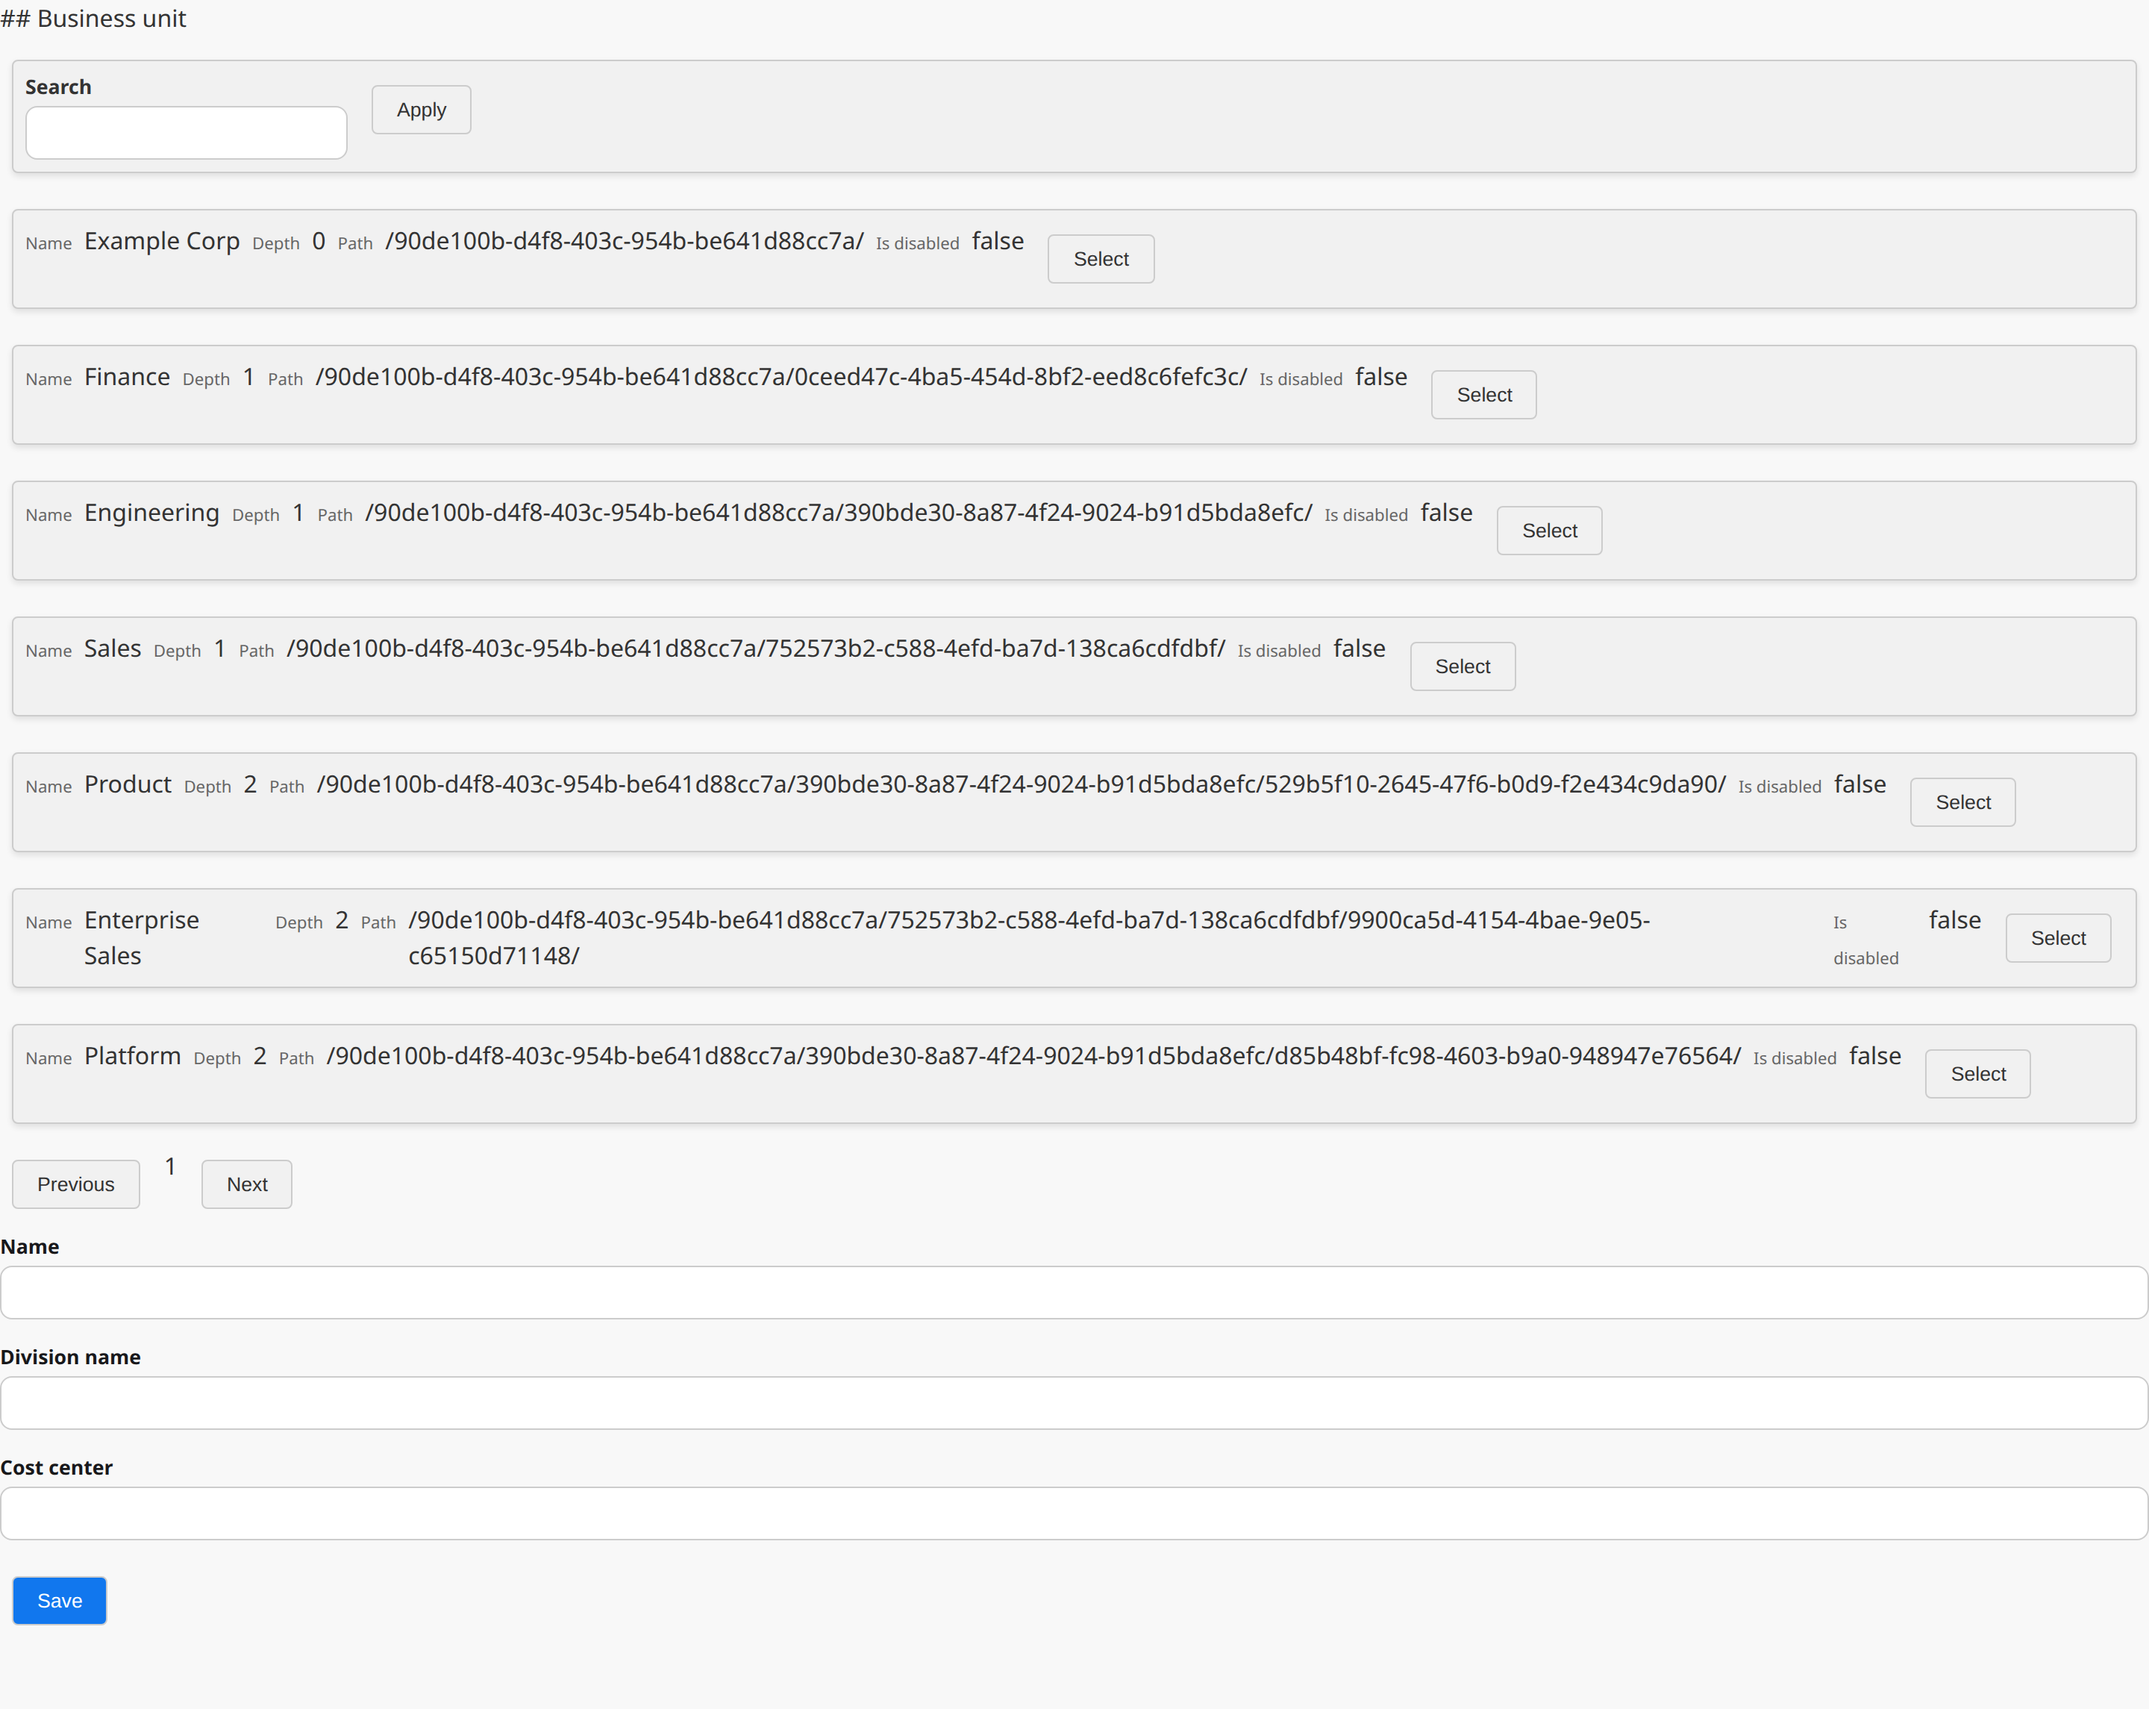
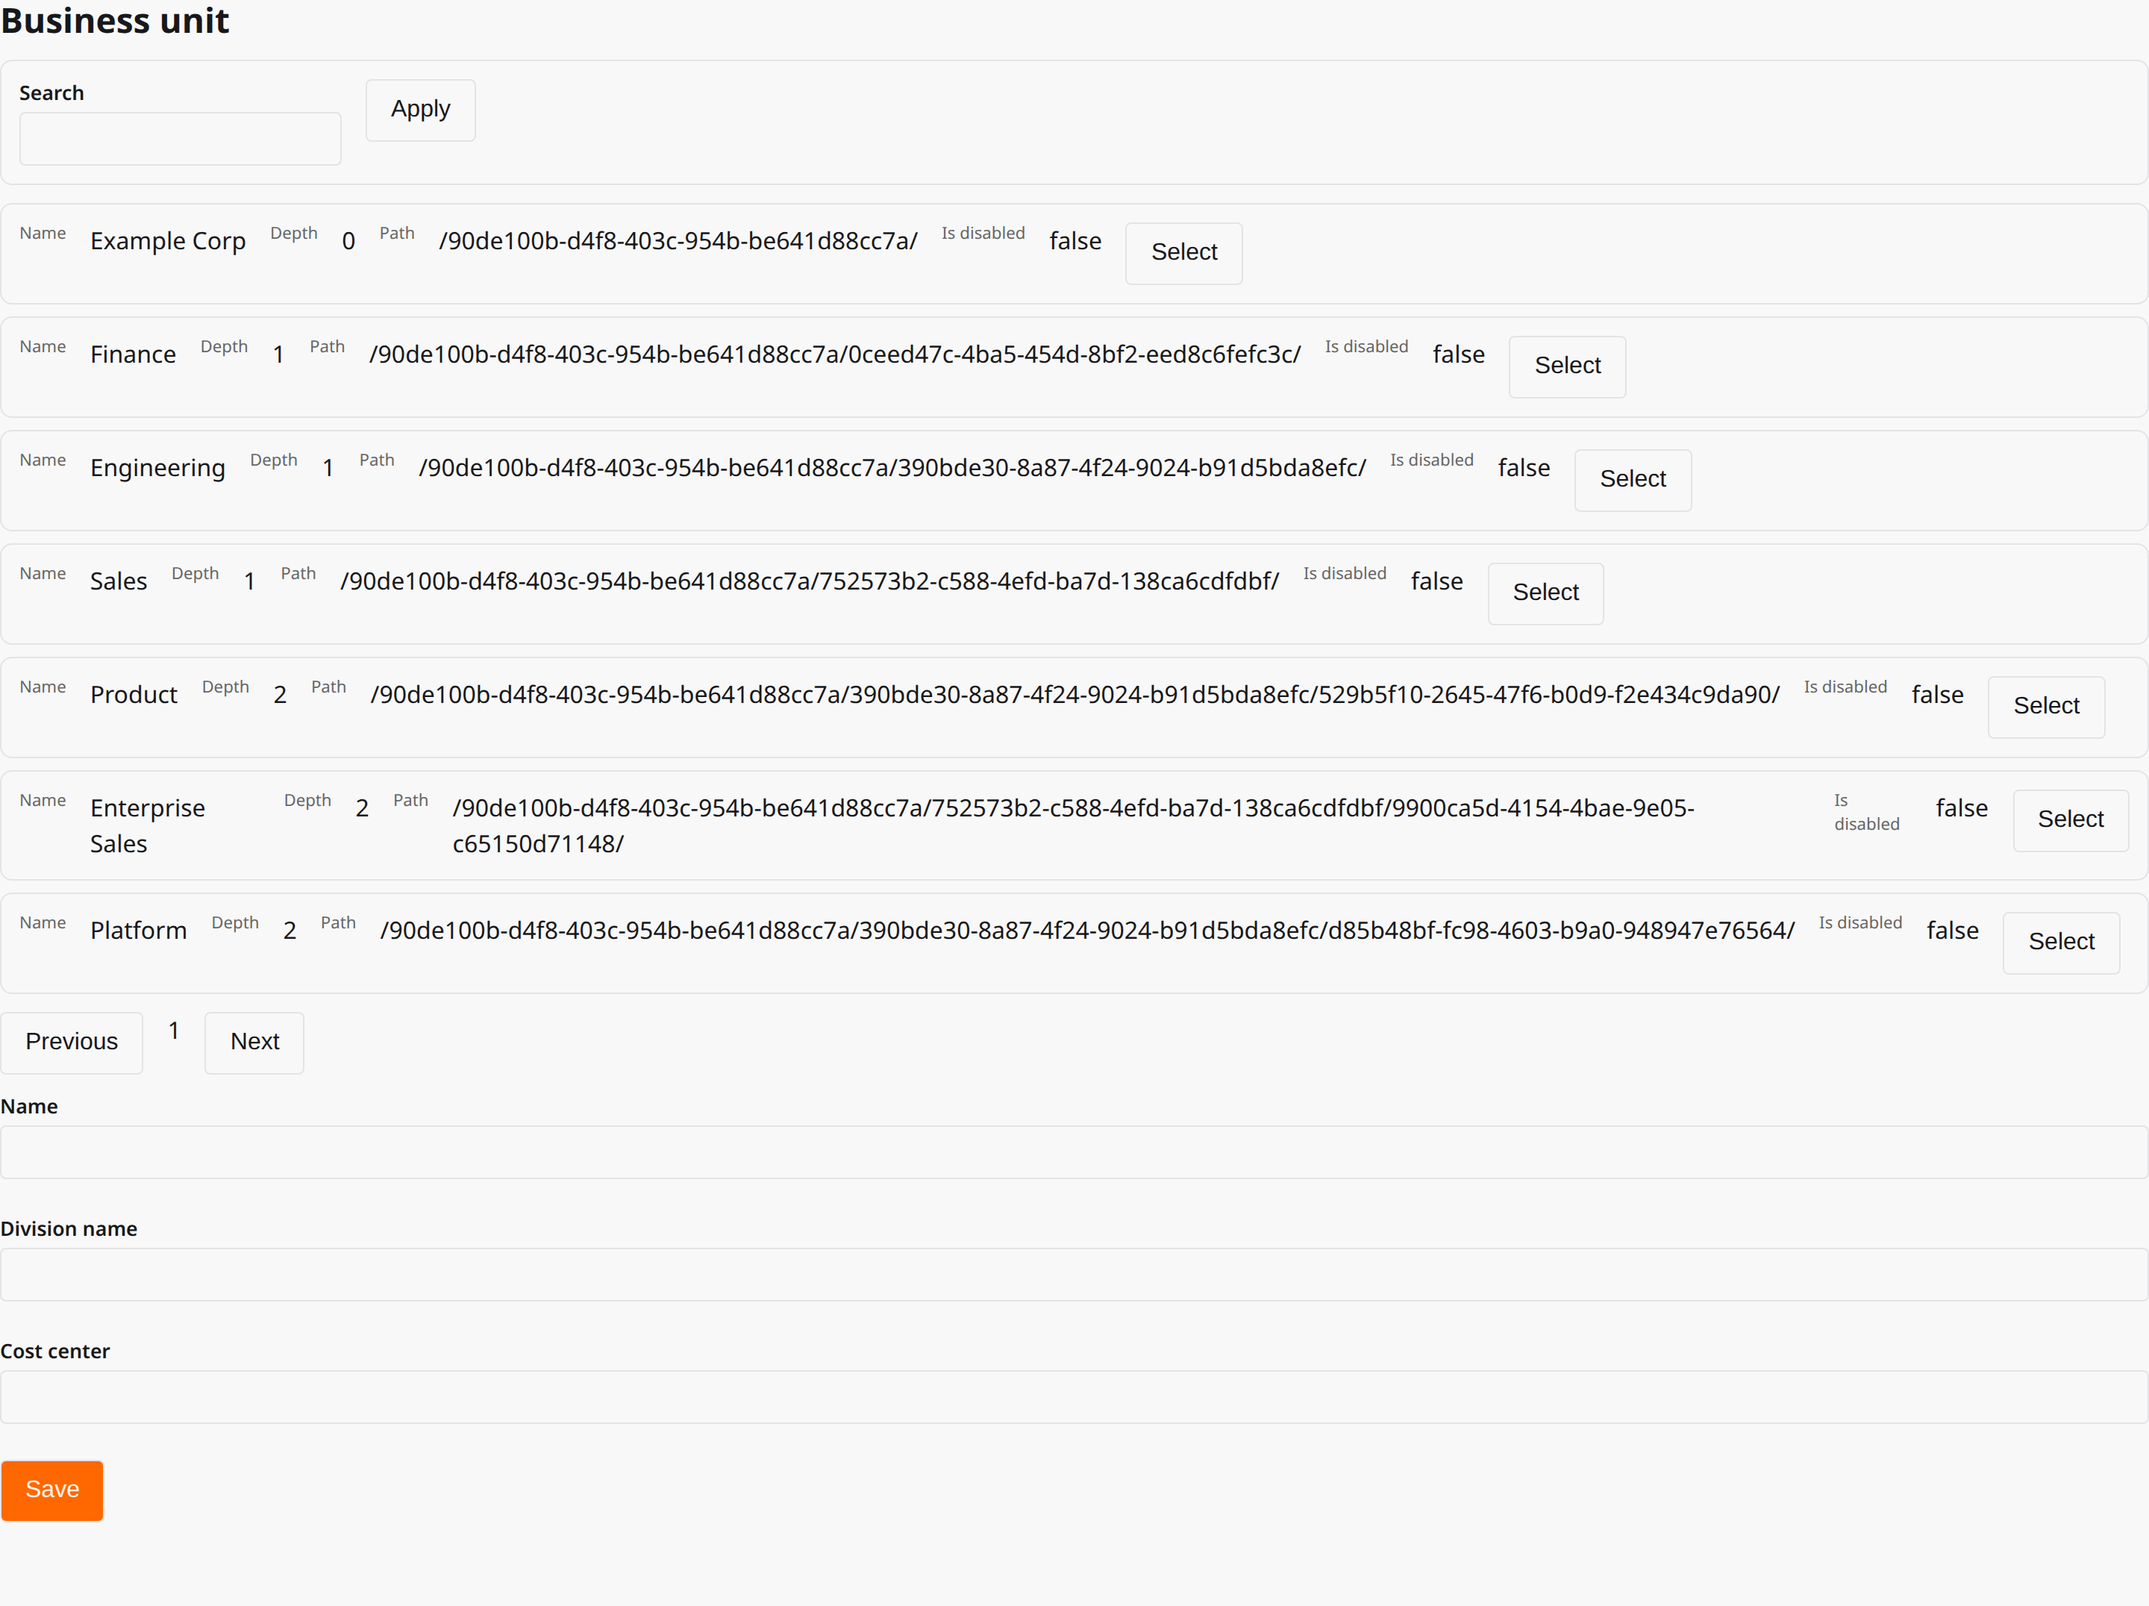
Theme the A2UI surfaces, and wire the two client pieces that were missing
The surfaces looked unstyled because ash_a2ui's client wiring was never
finished -- three of its four documented setup steps were absent or inverted.

daisyUI was not the problem. It is installed, compiling, and working
everywhere else; it simply cannot reach these components. @a2ui/lit's basic
catalog renders inside SHADOW DOM and exposes no ::part()s, so no Tailwind
utility, daisyUI class or element selector crosses into it. The only seam that
does is CSS custom properties, which inherit through shadow boundaries -- and
none were set, so what shipped was the A2UI factory default theme.

**The merged catalog was dead code.** `catalogs: [basicCatalog, ashCatalog]`
registered both under the same catalog id, and resolution is first-match, so
basicCatalog shadowed ashCatalog entirely and every override it exists to
provide never ran. The comment above that line asserted the opposite. Visible
as single-choice pickers rendering a stack of radio buttons; they are native
<select>s now.

**No markdown renderer was wired,** so the basic catalog's Text fell back to
`<span class="no-markdown-renderer">`. That printed headings as literal `##`,
but far worse, collapsed EVERY Text on every surface to one identical unstyled
span -- no type hierarchy anywhere, and the --a2ui-font-size-* scale dead. This
is also a hard prerequisite for A2UI v1.0, which removes the h1-h5 Text
variants entirely, leaving markdown as the only way to express a heading.
[…]

diff --git a/assets/css/app.css b/assets/css/app.css
@@ -105,4 +105,60 @@
 /* Make LiveView wrapper divs transparent for layout */
 [data-phx-session], [data-phx-teleported-src] { display: contents }
 
+/* --- A2UI surfaces --------------------------------------------------------
+ *
+ * A2UI's basic-catalog components render inside SHADOW DOM. None of the CSS
+ * above reaches them: not Tailwind utilities, not daisyUI's classes, not
+ * element or class selectors, and they expose no ::part()s. daisyUI is
+ * installed and working -- it simply cannot cross that boundary, which is why
+ * these surfaces looked unstyled while the rest of the app looked fine.
+ *
+ * The one seam that does cross it is CSS custom properties, which inherit
+ * through shadow boundaries. So theming A2UI is exactly this: declare the
+ * --a2ui-* contract, and let it inherit.
+ *
+ * Order matters twice over. The catalog injects its own defaults at
+ * :where(:root) (zero specificity), so the plain :root below outranks them;
+ * and ash_a2ui's neutral theme must be imported before our overrides, since
+ * both land at the same specificity and the last declaration wins.
+ */
+@import "../../deps/ash_a2ui/priv/js/ash_a2ui_theme.css";
+
+:root {
+  /* Map daisyUI's tokens onto the A2UI contract, rather than restating colour
+   * values. The surfaces then follow the themes defined at the top of this
+   * file automatically, including any future edits to them. */
+  --a2ui-color-background: var(--color-base-200);
+  --a2ui-color-on-background: var(--color-base-content);
+  --a2ui-color-surface: var(--color-base-100);
+  --a2ui-color-on-surface: var(--color-base-content);
+  --a2ui-color-primary: var(--color-primary);
+  --a2ui-color-on-primary: var(--color-primary-content);
+  --a2ui-color-secondary: var(--color-base-200);
+  --a2ui-color-on-secondary: var(--color-base-content);
+  --a2ui-color-input: var(--color-base-100);
+  --a2ui-color-on-input: var(--color-base-content);
+  --a2ui-color-border: var(--color-base-300);
+
+  --a2ui-border-radius: var(--radius-field);
+  --a2ui-button-border-radius: var(--radius-field);
+  --a2ui-textfield-border-radius: var(--radius-field);
+  --a2ui-card-border-radius: var(--radius-box);
+
+  /* Admin density. The stock rhythm gives a one-line row a ~76px card, so five
+   * users fill the viewport; these roughly halve that without crowding. */
+  --a2ui-card-padding: 0.75rem;
+  --a2ui-list-gap: 0.5rem;
+  --a2ui-row-gap: 1rem;
+  --a2ui-column-gap: 0.75rem;
+}
+
+/* A2UI's colours are written with light-dark(), which reads `color-scheme`
+ * rather than any class or attribute -- and the protocol carries no dark-mode
+ * signal at all, in any version. Binding color-scheme to the daisyUI data
+ * attribute is the only thing that makes these surfaces follow the app's own
+ * theme toggle instead of the OS setting. */
+:root[data-theme="light"] { color-scheme: light }
+:root[data-theme="dark"] { color-scheme: dark }
+
 /* This file is for your main application CSS */

diff --git a/assets/js/app.js b/assets/js/app.js
@@ -37,9 +37,11 @@ import topbar from "../vendor/topbar"
 // alone). ash_a2ui's hook is the v1.0-capable layer on top of the v0.9
 // renderer, so we register the v0_9 catalog here and let the hook translate.
 import "@a2ui/lit/v0_9"
-import {basicCatalog, A2uiLitElement, A2uiController} from "@a2ui/lit/v0_9"
+import {basicCatalog, A2uiLitElement, A2uiController, Context} from "@a2ui/lit/v0_9"
 import {MessageProcessor, Catalog, ChoicePickerApi, ColumnApi} from "@a2ui/web_core/v0_9"
 import {html, css, nothing} from "lit"
+import {ContextProvider} from "@lit/context"
+import {renderMarkdown} from "@a2ui/markdown-it"
 import {AshA2ui, configureAshA2ui} from "../../deps/ash_a2ui/priv/js/ash_a2ui_hook.js"
 import {createAshA2uiCatalog} from "../../deps/ash_a2ui/priv/js/ash_a2ui_catalog.js"
 
@@ -64,10 +66,31 @@ const ashCatalog = createAshA2uiCatalog({
 
 configureAshA2ui({
   MessageProcessor,
-  // Order matters: ash_a2ui overrides basic components where it has a better one
-  // (a native <select> for ChoicePicker, a typeahead combobox for Column) and
-  // falls through to the basic catalog for everything else.
-  catalogs: [basicCatalog, ashCatalog]
+  // ONLY the merged catalog. It registers under the *same* catalog id the
+  // encoder emits, and resolution is first-match:
+  //
+  //     const catalog = this.catalogs.find(c => c.id === catalogId)
+  //
+  // so passing basicCatalog first shadowed ashCatalog completely and every
+  // override it exists to provide was dead code -- visible as single-choice
+  // pickers rendering a stack of radio buttons instead of a <select>. It
+  // already reuses every basic-catalog component it does not replace, so
+  // nothing is lost by dropping basicCatalog from this list.
+  catalogs: [ashCatalog],
+
+  // Without a markdown renderer the basic catalog's Text component falls back
+  // to `<span class="no-markdown-renderer">`, which prints headings as literal
+  // `## Title` and -- much worse -- collapses EVERY Text on every surface to
+  // one identical unstyled span. That erases the whole type hierarchy and
+  // leaves the --a2ui-font-size-* scale as dead code.
+  //
+  // This is a hard requirement for A2UI v1.0, not a nicety: v1.0 removes the
+  // h1-h5 Text variants entirely, so ash_a2ui's v1.0 encoder turns headings
+  // into markdown `#` prefixes and there is no variant left to fall back on.
+  //
+  // renderMarkdown runs its output through DOMPurify, which matters because
+  // these values come from the database rather than from a trusted author.
+  markdown: {ContextProvider, context: Context.markdown, render: renderMarkdown}
 })
 
 const csrfToken = document.querySelector("meta[name='csrf-token']").getAttribute("content")

diff --git a/docs/adr/0006-design-system.md b/docs/adr/0006-design-system.md
@@ -27,6 +27,25 @@ Open-source-only is a project constraint, which removes Fluxon and Petal Pro.
 **`ash_admin`** provides zero-config CRUD at `/admin`. **`cinder`** (0.17) provides Ash-native data tables.
 **`ash_a2ui`** provides declarative, agent-renderable surfaces.
 
+**The design system does not reach A2UI, and this is structural.** `@a2ui/lit`'s basic-catalog components render inside
+**shadow DOM** and expose no `::part()`s, so nothing above — not Tailwind utilities, not daisyUI's classes, not element
+or class selectors — crosses into them. The only seam that does is **CSS custom properties**, which inherit through
+shadow boundaries.
+
+So A2UI is themed by *mapping tokens*, never by writing rules: `assets/css/app.css` imports
+`deps/ash_a2ui/priv/js/ash_a2ui_theme.css` and then binds the `--a2ui-*` contract to daisyUI's variables. Two ordering
+facts make it work — the catalog injects its defaults at `:where(:root)` (zero specificity), so a plain `:root` wins;
+and A2UI's colours use `light-dark()`, which reads `color-scheme` rather than any class, so `color-scheme` must be
+bound to the `data-theme` attribute or the surfaces follow the OS instead of the app's toggle.
+
+This was omitted from the original decision, and the omission is exactly how the surfaces shipped unstyled: daisyUI was
+correctly installed and compiling the whole time, the classes simply could not reach. Nothing failed at build time, so
+a green asset build proved nothing.
+
+Structure is a separate concern from style and lands upstream, not here: column alignment in A2UI comes from mirrored
+`weight` between a header row and the record template, which is `ash_a2ui`'s encoder to emit. No token can fix a
+layout that never declared a width.
+
 **SaladUI was planned and then rejected on a hard technical conflict.** SaladUI 1.0 declares `igniter` as a plain
 runtime dependency. Our `igniter` is `only: [:dev, :test]`, and Mix refuses the mismatch:
 
